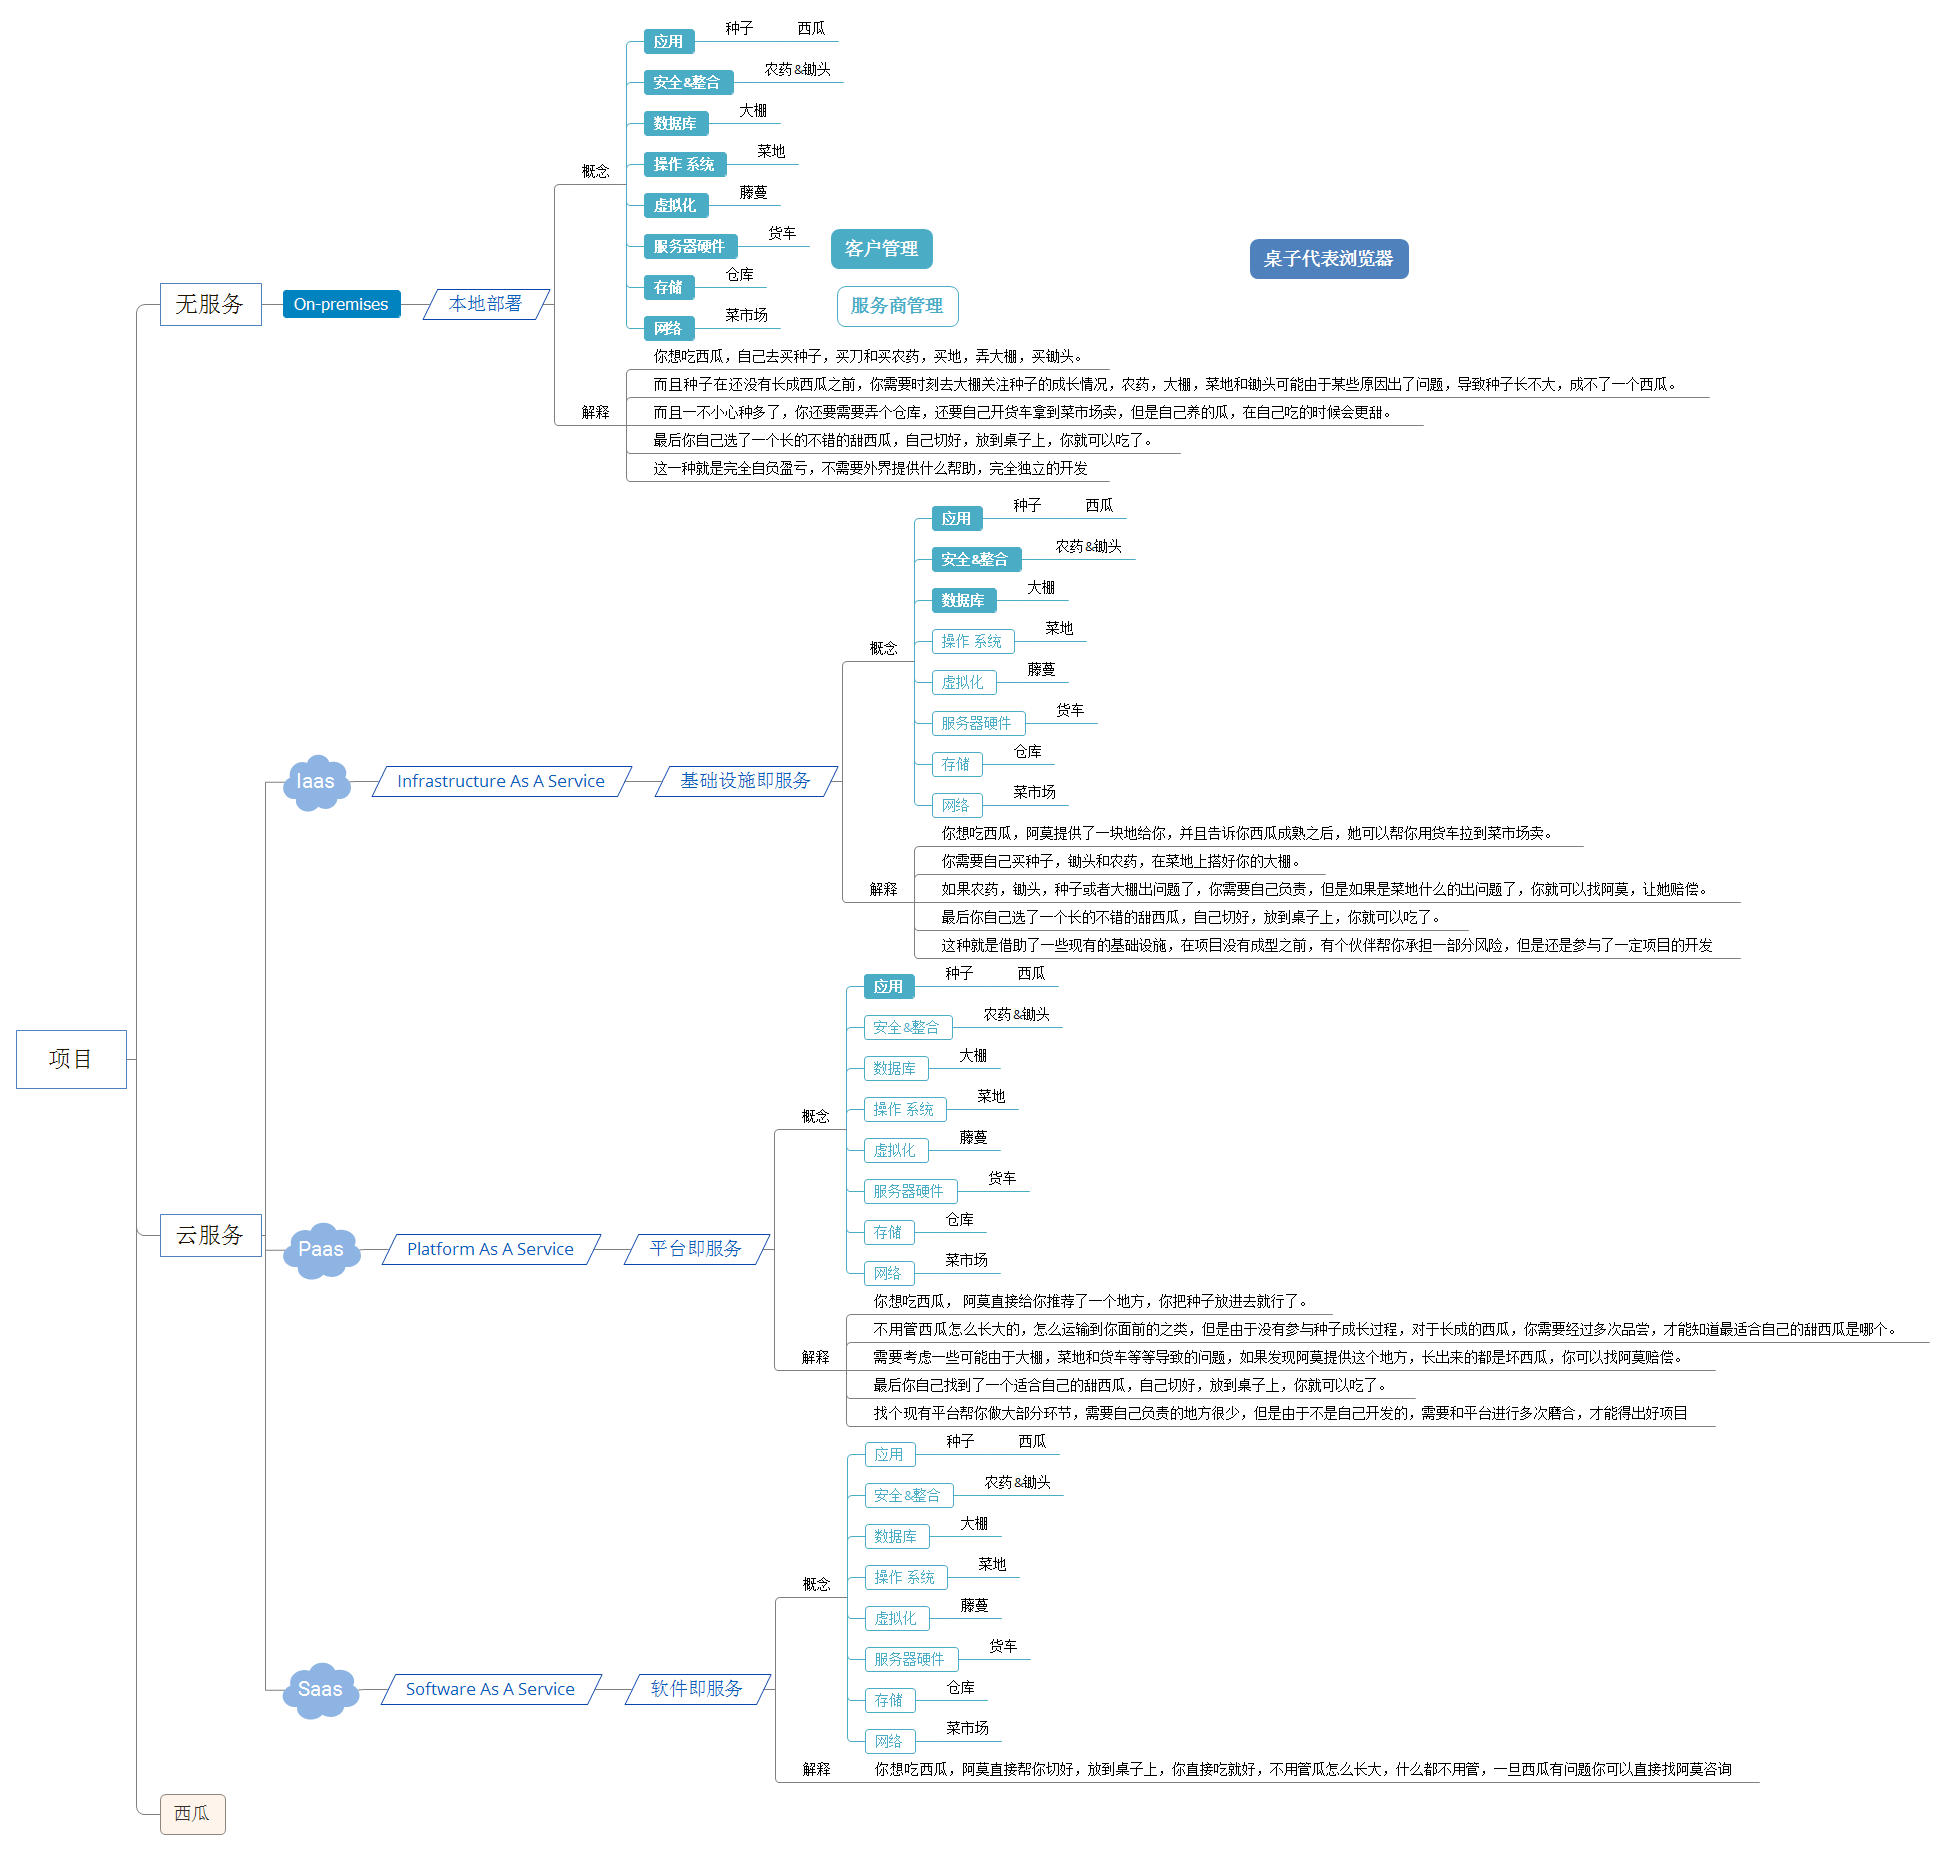
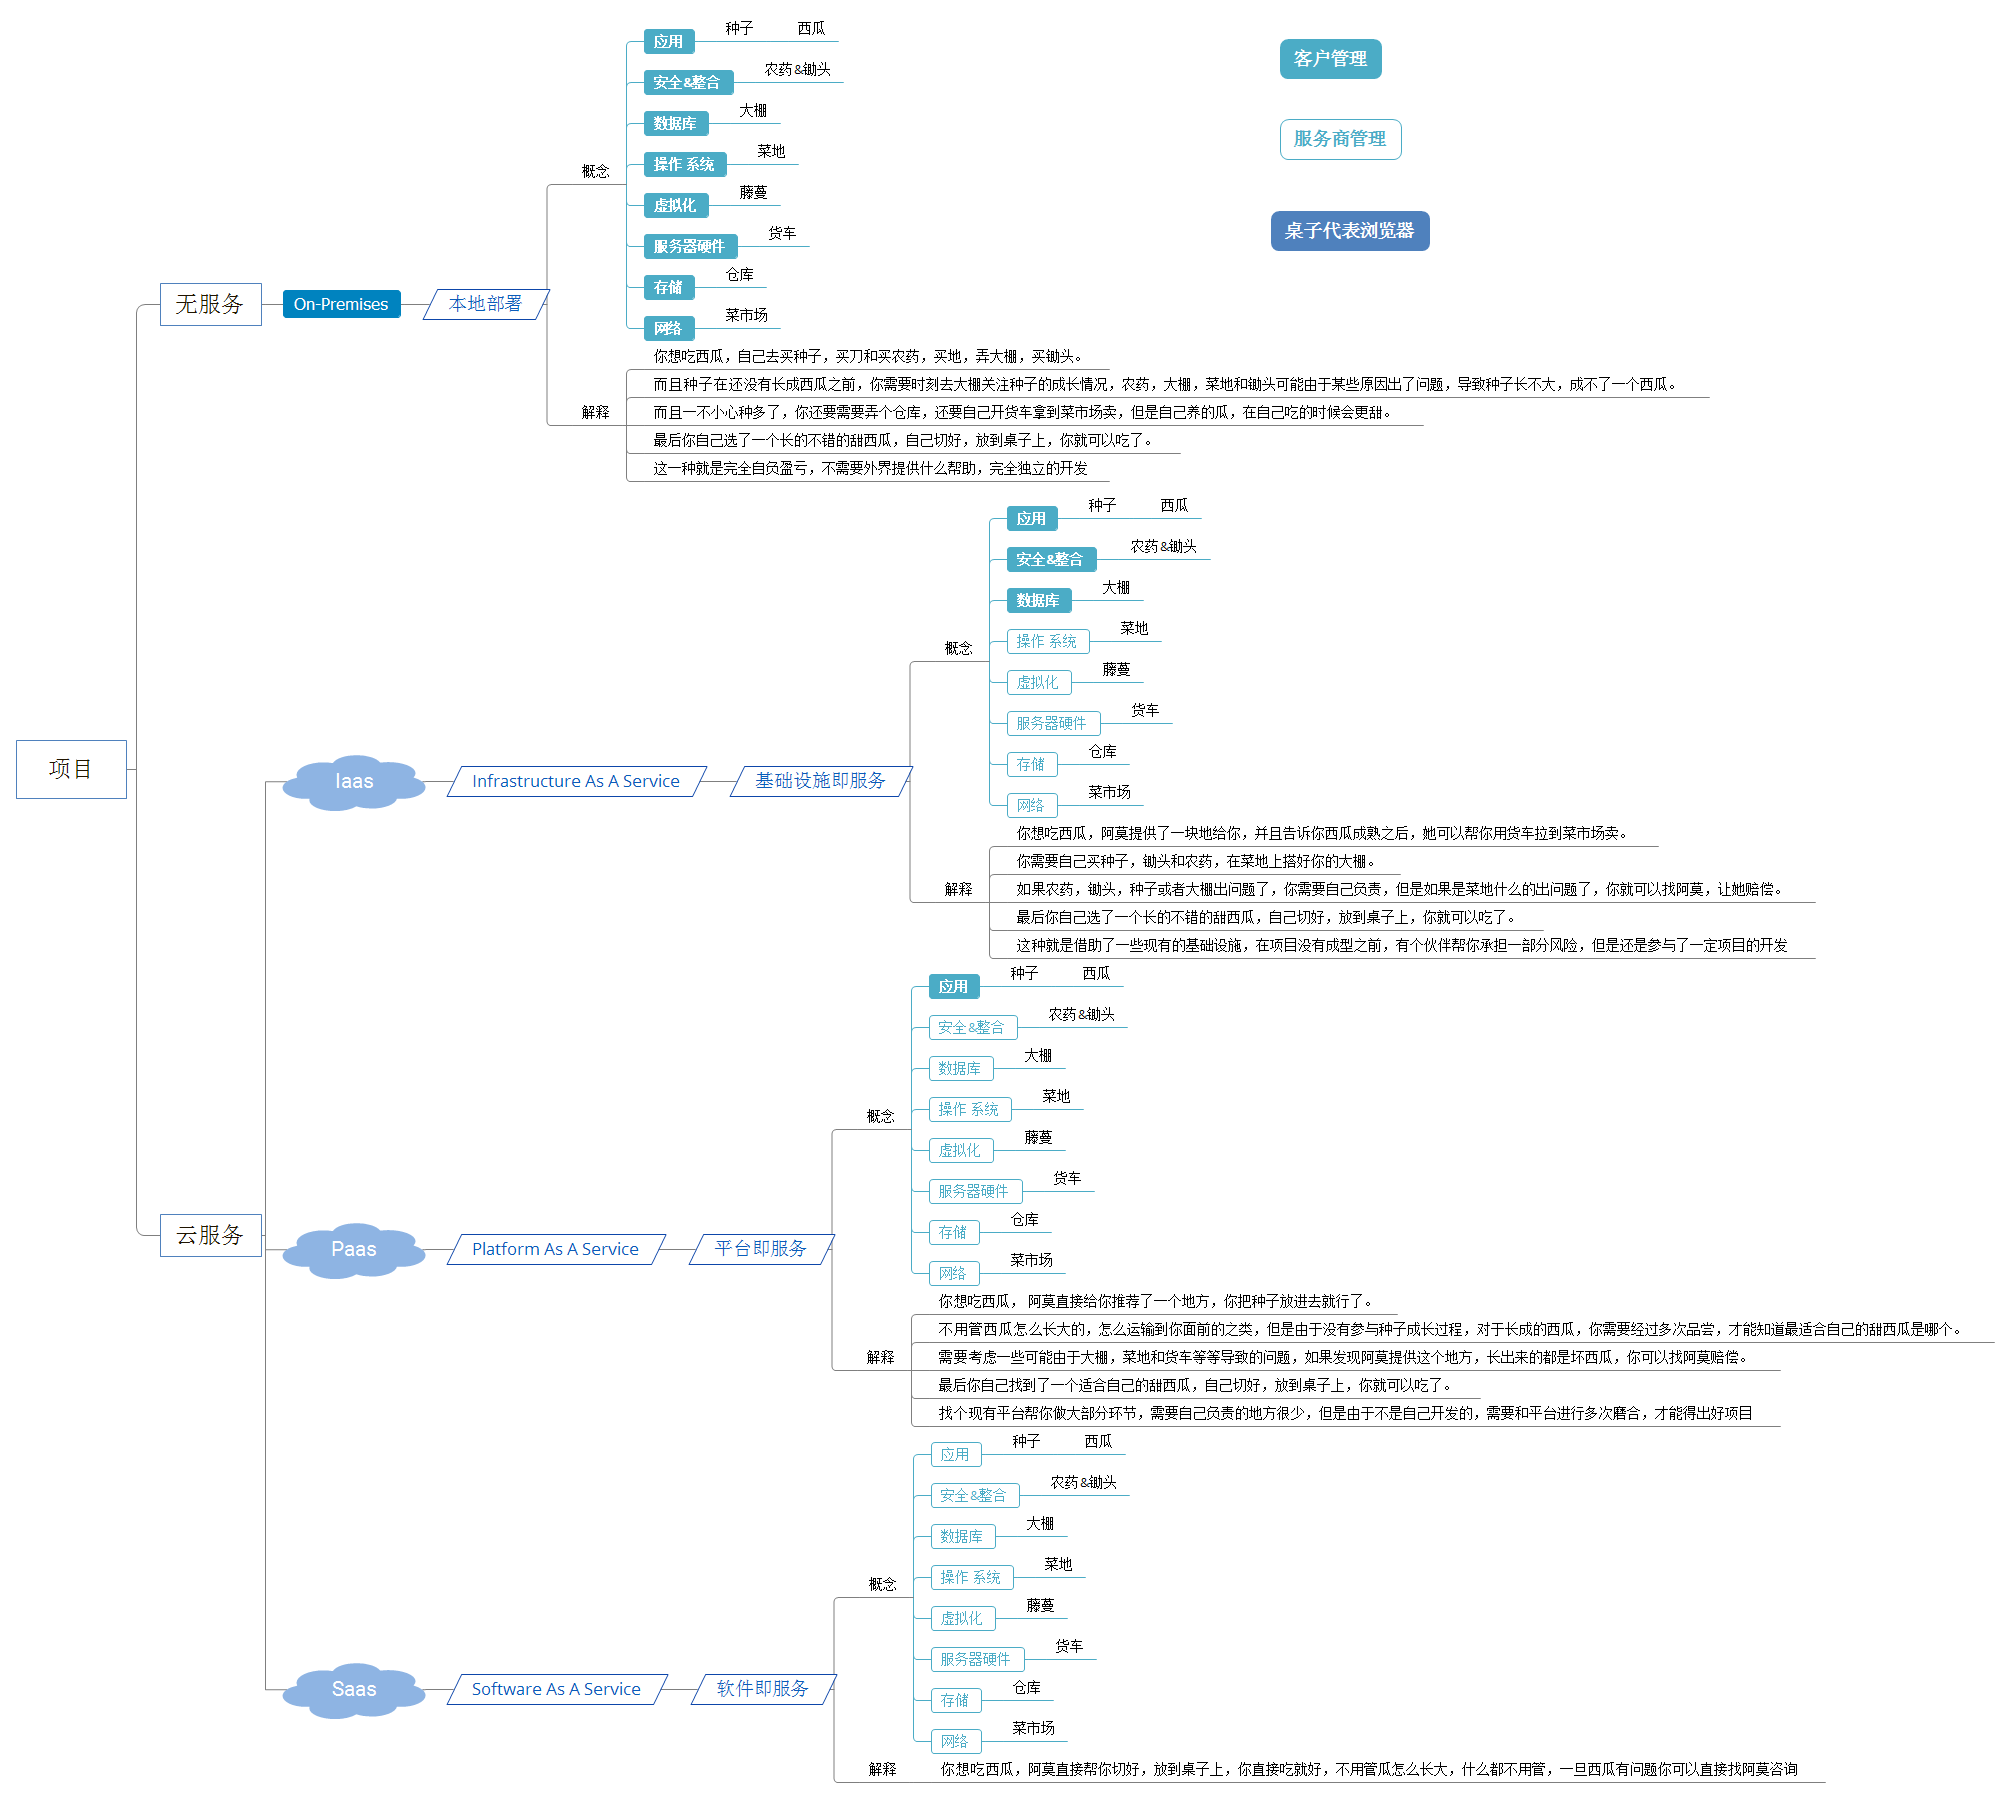
修改对于IaaS/PaaS/SaaS理解冗余部分

diff --git a/source/_posts/knowledge-Service.md b/source/_posts/knowledge-Service.md
@@ -135,10 +135,6 @@ Software as a Service，软件即服务
 
   你想吃西瓜，阿莫直接帮你切好，放到桌子上，你直接吃就好，不用管瓜怎么长大，什么都不用管，一旦西瓜有问题你可以直接找阿莫咨询
 
-  客户管理
-  服务商管理
-  桌子代表浏览器
-
 # 3 总结
 
   ![对于IaaS/PaaS/SaaS理解](../../../../img/project.png)
